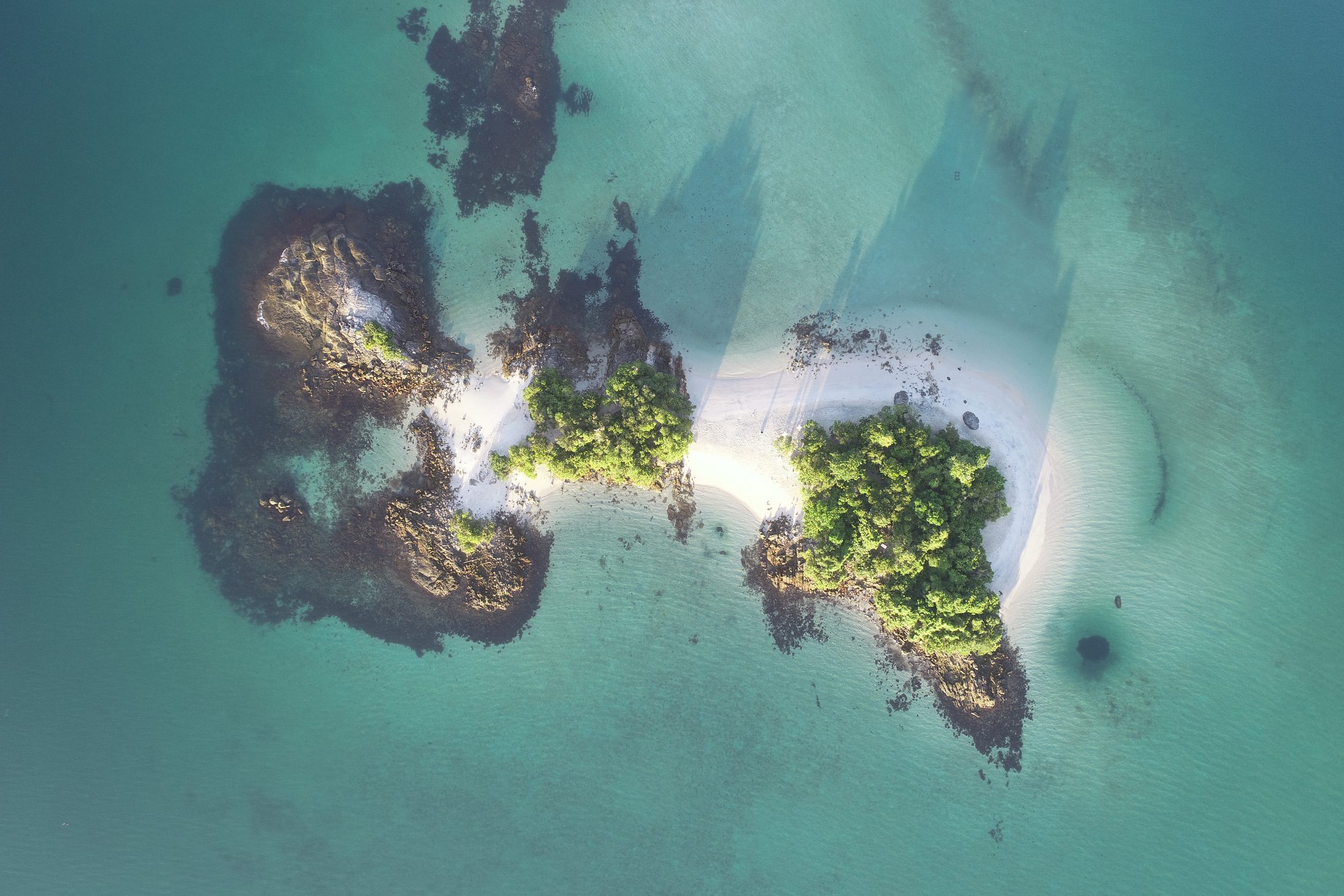
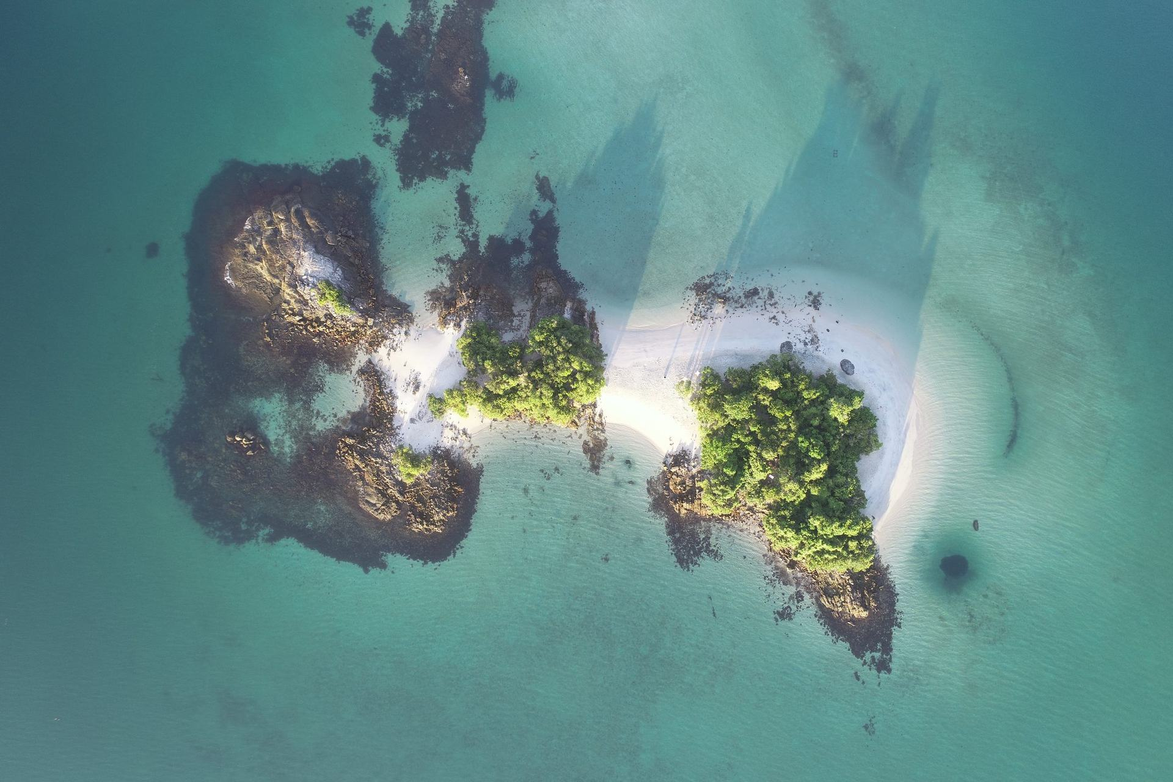
Otimizar site: corrigir imagem quebrada, reduzir peso de assets e lazy loading (#1)
* Otimizar site: corrigir imagem quebrada, reduzir peso de assets e lazy loading

- Corrige assets/vila-do-abraao.png ausente (3 imagens quebradas no site);
  convertida para JPEG (vila-do-abraao.jpg) e movida para assets/
- Remove duplicatas de imagem na raiz e o cataguases-hero.jpg original
  nao referenciado (8,7MB), alem de prints de preview sem uso no site
- Recomprime/redimensiona imagens usadas para o tamanho real exibido
  (assets caiu de ~10,5MB para menos de 1MB)
- Adiciona loading="lazy"/decoding="async" nas imagens fora da dobra e
  fetchpriority="high" na primeira imagem do carrossel do hero
- Adiciona preload da imagem de hero, theme-color e favicon no <head>
- Documenta em PUBLICAR.md as tags de canonical/OG a adicionar quando
  o dominio de producao for definido

* Corrigir nome acessivel do logo e adicionar dimensoes da imagem

Achados no Lighthouse: o link do logo tinha aria-label diferente do
texto visivel (falha WCAG 2.5.3 Label in Name); removido para usar o
texto visivel como nome acessivel. Adicionadas width/height na imagem
do logo para eliminar o unico aviso restante de CLS.

* Minificar CSS de producao

styles.css continua sendo o arquivo fonte, editavel a mao. O
index.html agora carrega styles.min.css (gerado com clean-css-cli),
21% menor. Lighthouse confirmou: unminified-css passou de 8KB de
desperdicio para 0, sem regressao visual ou funcional (testado
carrossel, menu mobile e breakpoints). PUBLICAR.md documenta o
[…]

diff --git a/styles.min.css b/styles.min.css
@@ -1,0 +1,1 @@
+:root{--ink:#061a3a;--muted:#52677a;--paper:#f6fbff;--white:#ffffff;--ocean:#00a9d6;--ocean-dark:#021f4f;--reef:#00a9d6;--leaf:#021f4f;--line:rgba(2, 31, 79, 0.14);--shadow:0 18px 50px rgba(2, 31, 79, 0.12);--max:1160px}*{box-sizing:border-box}html{scroll-behavior:smooth;overflow-x:hidden}body{margin:0;overflow-x:hidden;color:var(--ink);background:linear-gradient(180deg,#f7fcff 0,#fff 34%,#eef9ff 100%);font-family:Inter,ui-sans-serif,system-ui,-apple-system,BlinkMacSystemFont,"Segoe UI",sans-serif;isolation:isolate;line-height:1.5}.sr-only{position:absolute;width:1px;height:1px;padding:0;overflow:visible;clip:rect(0,0,0,0);white-space:nowrap;border:0}.reveal-item{opacity:0;transform:translateY(28px);transition:opacity .7s,transform .7s cubic-bezier(.22, 1, .36, 1);transition-delay:var(--reveal-delay, 0ms)}.reveal-item.is-visible{opacity:1;transform:translateY(0)}.scroll-ocean{position:fixed;inset:0;z-index:0;overflow:hidden;opacity:.62;pointer-events:none}.scroll-ocean::before{position:absolute;top:18svh;left:-12vw;width:124vw;height:46svh;background:linear-gradient(8deg,transparent 0 35%,rgba(0,169,214,.12) 36% 41%,transparent 42% 100%),linear-gradient(-7deg,transparent 0 47%,rgba(2,31,79,.06) 48% 52%,transparent 53% 100%),radial-gradient(ellipse at 52% 50%,rgba(255,255,255,.62),transparent 55%);border-radius:50%;content:"";filter:blur(1px);opacity:.46;transform:rotate(-3deg)}.scroll-ocean::after{position:absolute;top:55svh;left:-16vw;width:132vw;height:24svh;background:repeating-linear-gradient(172deg,transparent 0 34px,rgba(0,169,214,.1) 35px 39px,transparent 40px 80px),linear-gradient(180deg,transparent,rgba(255,255,255,.38),transparent);border-radius:50%;content:"";opacity:.34;transform:rotate(2deg)}.scroll-boat{position:fixed;top:clamp(210px,43svh,520px);left:0;width:clamp(168px,20vw,286px);filter:drop-shadow(0 22px 28px rgba(2, 31, 79, .16));transform:translate3d(-34vw,0,0) rotate(-1.5deg);transform-origin:58% 64%;animation:28s linear -10s infinite boat-cross}.boat-graphic{display:block;width:100%;overflow:visible}.boat-shadow{fill:rgba(2,31,79,0.12)}.boat-hull{fill:url("#boatHullGradient")}.boat-hull-light{fill:rgba(255,255,255,0.16)}.boat-cabin,.boat-deck{fill:url("#boatCabinGradient");stroke:rgba(2,31,79,0.38);stroke-width:2.5}.boat-window{fill:rgba(2,31,79,0.85)}.boat-bow,.boat-rail,.boat-spray,.boat-stripe{fill:none;stroke:#ffffff;stroke-linecap:round;stroke-linejoin:round;stroke-width:3}.boat-stripe{stroke:rgba(255,255,255,0.74);stroke-width:4}.boat-spray{stroke:rgba(0,169,214,0.35);stroke-width:4}.boat-spray-soft{stroke:rgba(2,31,79,0.16);stroke-width:3}@keyframes boat-cross{0%{opacity:0;transform:translate3d(-34vw,20px,0) rotate(-2deg)}8%{opacity:.62}50%{opacity:.72;transform:translate3d(48vw,-18px,0) rotate(1deg)}92%{opacity:.56}100%{opacity:0;transform:translate3d(124vw,18px,0) rotate(-1deg)}}img{display:block;max-width:100%}a{color:inherit;text-decoration:none}.site-footer,main{position:relative;z-index:2}button,input,select,textarea{font:inherit}.site-header{position:fixed;z-index:80;top:0;left:0;right:0;display:grid;grid-template-columns:auto minmax(0,1fr) auto;align-items:center;gap:10px;width:min(calc(100% - 40px),1180px);margin:18px auto 0;padding:7px;overflow:visible;color:var(--white);background:linear-gradient(135deg,rgba(3,49,76,.82),rgba(2,31,79,.56)),rgba(2,31,79,.52);border:1px solid rgba(255,255,255,.24);border-radius:999px;box-shadow:0 22px 60px rgba(2,31,79,.24);backdrop-filter:blur(20px)}.site-header::before{position:absolute;inset:1px;background:linear-gradient(100deg,rgba(255,255,255,.16),transparent 32% 68%,rgba(0,169,214,.16));border-radius:inherit;content:"";pointer-events:none}.site-header>*{position:relative;z-index:1}.brand{display:inline-flex;align-items:center;gap:9px;min-width:0;padding:4px 12px 4px 5px;background:rgba(255,255,255,.1);border:1px solid rgba(255,255,255,.12);border-radius:999px}.brand-logo-wrap{display:flex;flex:0 0 54px;width:54px;height:44px;align-items:center;justify-content:center;padding:4px;background:var(--white);border-radius:999px}.brand-logo-wrap img{max-width:100%;max-height:100%;object-fit:contain}.brand small,.brand strong{display:block}.brand strong{color:var(--white);font-size:.94rem;line-height:1}.brand small{color:rgba(255,255,255,.68);font-size:.75rem}.main-nav{display:flex;align-items:center;justify-content:center;gap:4px;justify-self:center;padding:4px;background:rgba(255,255,255,.08);border:1px solid rgba(255,255,255,.1);border-radius:999px}.header-action,.main-nav a{padding:10px 14px;border-radius:999px;color:rgba(255,255,255,.78);font-size:.86rem;font-weight:700}.main-nav a:hover{color:var(--ocean-dark);background:rgba(255,255,255,.92)}.header-action{display:inline-flex;align-items:center;gap:8px;color:var(--ocean-dark);background:var(--white);box-shadow:0 12px 28px rgba(2,31,79,.2)}.header-action::before{width:8px;height:8px;background:var(--ocean);border-radius:50%;content:""}.header-action:hover{color:var(--ocean-dark);background:#e7faff}.menu-toggle{display:none;width:44px;height:44px;flex:0 0 44px;align-items:center;justify-content:center;flex-direction:column;gap:5px;padding:0;color:var(--white);background:rgba(255,255,255,.14);border:1px solid rgba(255,255,255,.24);border-radius:50%;cursor:pointer;box-shadow:0 10px 24px rgba(2,31,79,.18)}.menu-toggle span{display:block;width:18px;height:2px;background:currentColor;border-radius:999px;transition:transform 180ms,opacity 180ms}.site-header.menu-open .menu-toggle span:first-child{transform:translateY(7px) rotate(45deg)}.site-header.menu-open .menu-toggle span:nth-child(2){opacity:0}.site-header.menu-open .menu-toggle span:nth-child(3){transform:translateY(-7px) rotate(-45deg)}.hero{position:relative;display:grid;min-height:76svh;overflow:hidden;color:var(--white);background:#03314c;isolation:isolate}.hero-media,.hero-overlay{position:absolute;inset:0}.hero-media{z-index:-2;background-image:url("assets/cataguases-hero-web.jpg");background-position:center 34%;background-size:cover;opacity:.82;transform:scale(1.02)}.hero-overlay{z-index:-1;background:linear-gradient(90deg,rgba(3,49,76,.96) 0,rgba(3,49,76,.78) 42%,rgba(3,49,76,.2) 100%),linear-gradient(180deg,rgba(2,31,79,.68) 0,rgba(2,31,79,.18) 48%,rgba(246,251,255,.96) 100%)}.hero-watermark{position:absolute;z-index:0;color:rgba(255,255,255,.08);font-weight:950;line-height:.8;text-transform:uppercase;white-space:nowrap;pointer-events:none}.hero-watermark-viva{right:clamp(18px,5vw,72px);bottom:clamp(108px,18svh,200px);font-size:clamp(5rem, 16vw, 15rem)}.hero-watermark-angra{right:-.08em;bottom:-.24em;font-size:clamp(6rem, 20vw, 18rem)}.hero-content{position:relative;z-index:2;display:grid;grid-template-columns:minmax(0,0.92fr) minmax(420px,1.08fr);gap:clamp(30px,5vw,70px);align-items:center;width:min(calc(100% - 32px),var(--max));margin:0 auto;padding:118px 0 52px}.hero-content>*{opacity:0;transform:translateY(18px);animation:.8s cubic-bezier(.22,1,.36,1) forwards hero-rise}.hero-content>:nth-child(2){animation-delay:90ms}@keyframes hero-rise{to{opacity:1;transform:translateY(0)}}.hero-copy-block{position:relative;max-width:680px;padding:18px 0 8px}.hero-copy-block::before{position:absolute;top:0;left:0;width:96px;height:2px;background:linear-gradient(90deg,var(--ocean),rgba(255,255,255,.72),transparent);content:""}.hero-topline{display:inline-flex;flex-wrap:wrap;gap:6px;margin-bottom:16px;padding:5px;color:rgba(255,255,255,.78);background:rgba(255,255,255,.1);border:1px solid rgba(255,255,255,.14);border-radius:999px;backdrop-filter:blur(10px)}.hero-topline span{padding:6px 11px;background:rgba(255,255,255,.08);border-radius:999px;font-size:.72rem;font-weight:900;text-transform:uppercase}.eyebrow{margin:0 0 12px;color:var(--reef);font-size:.78rem;font-weight:900;letter-spacing:0;text-transform:uppercase}.hero-brand-name{display:grid;width:min(100%,760px);margin:0;color:var(--white);line-height:.86;letter-spacing:0;text-shadow:0 24px 55px rgba(2,31,79,.36)}.hero-brand-name span{display:block}.hero-brand-viva{margin:0 0 -.12em .08em;color:rgba(255,255,255,.92);font-size:clamp(2rem, 3.8vw, 3.7rem);font-style:italic;font-weight:850}.hero-brand-angra{color:#85f0ff;font-size:clamp(4.2rem, 9.2vw, 8.5rem);font-weight:950}.hero-brand-tour{position:relative;justify-self:start;margin-top:12px;padding:10px 34px 12px;overflow:visible;color:var(--white);background:linear-gradient(95deg,#021f4f,#073b7b 72%,#00a9d6);border:1px solid rgba(255,255,255,.3);border-radius:8px;box-shadow:0 18px 42px rgba(2,31,79,.3),inset 0 1px 0 rgba(255,255,255,.22);font-size:clamp(1.55rem, 2.7vw, 2.45rem);font-weight:950;line-height:1;text-transform:uppercase}.hero-copy{max-width:520px;margin:20px 0 0;color:rgba(255,255,255,.88);font-size:clamp(1rem, 1.45vw, 1.18rem)}.hero-points{display:grid;grid-template-columns:repeat(3,minmax(0,1fr));gap:0;max-width:680px;margin:26px 0 0;padding:0;color:rgba(255,255,255,.86);border-top:1px solid rgba(255,255,255,.18);border-bottom:1px solid rgba(255,255,255,.18);list-style:none}.hero-points li{position:relative;padding:13px 14px 13px 16px;border-right:1px solid rgba(255,255,255,.16);font-size:.86rem;font-weight:800}.hero-points li:last-child{border-right:0}.hero-points li::before{position:absolute;top:17px;left:0;width:3px;height:18px;background:var(--reef);border-radius:999px;content:""}.hero-actions{display:flex;flex-wrap:wrap;gap:12px;margin-top:30px}.hero-showcase{position:relative;min-height:430px;perspective:1200px}.hero-showcase::before{position:absolute;inset:48px 24px 54px 34px;background:linear-gradient(145deg,rgba(255,255,255,.14),rgba(255,255,255,.035));border:1px solid rgba(255,255,255,.2);border-radius:8px;content:"";transform:rotate(-4deg) skewY(-1deg);transform-origin:center;backdrop-filter:blur(6px)}.hero-showcase-label{position:absolute;z-index:4;top:16px;left:22px;padding:12px 14px;color:var(--white);background:rgba(2,31,79,.58);border:1px solid rgba(255,255,255,.18);border-radius:8px;box-shadow:0 18px 44px rgba(2,31,79,.22);backdrop-filter:blur(14px)}.hero-showcase-label span,.hero-showcase-label strong{display:block}.hero-showcase-label span{color:rgba(255,255,255,.66);font-size:.72rem;font-weight:900;text-transform:uppercase}.hero-showcase-label strong{margin-top:3px;font-size:1rem}.hero-route-carousel{position:absolute;inset:28px 0 66px;transform-style:preserve-3d}.hero-route-card{position:absolute;top:50%;left:50%;width:min(54%,300px);height:300px;margin:0;overflow:hidden;background:var(--ocean-dark);border:1px solid rgba(255,255,255,.28);border-radius:8px;box-shadow:0 30px 80px rgba(2,31,79,.36);opacity:0;transform:translate3d(-50%,-50%,-260px) rotateY(32deg) scale(.64);transform-origin:center;animation:30s cubic-bezier(.77,0,.18,1) infinite route-card-cycle;animation-delay:calc(var(--card) * -5s);will-change:transform,opacity}.hero-route-card img{width:100%;height:100%;object-fit:cover;transform:scale(1.02)}.hero-route-card figcaption{position:absolute;right:0;bottom:0;left:0;padding:62px 18px 18px;color:var(--white);background:linear-gradient(0deg,rgba(2,31,79,.86),transparent)}.hero-route-card span,.hero-route-note span,.hero-stat span{display:block;color:rgba(255,255,255,.72);font-size:.74rem;font-weight:900;text-transform:uppercase}.hero-route-card strong{display:block;margin-top:5px;font-size:clamp(1.35rem, 2.1vw, 1.75rem);line-height:1}@keyframes route-card-cycle{0%,100%,9%,97%{opacity:1;transform:translate3d(-50%,-50%,140px) rotateY(0) scale(1)}14%,26%{opacity:.78;transform:translate3d(-10%,-56%,-30px) rotateY(-24deg) scale(.78)}31%,43%{opacity:.24;transform:translate3d(18%,-42%,-210px) rotateY(-42deg) scale(.56)}48%,58%{opacity:0;transform:translate3d(-50%,-32%,-330px) rotateY(0) scale(.5)}63%,75%{opacity:.24;transform:translate3d(-118%,-42%,-210px) rotateY(42deg) scale(.56)}80%,92%{opacity:.78;transform:translate3d(-90%,-56%,-30px) rotateY(24deg) scale(.78)}}.hero-route-note,.hero-stat{position:absolute;z-index:3;padding:16px 18px;color:var(--white);background:linear-gradient(145deg,rgba(3,49,76,.84),rgba(2,31,79,.68)),rgba(2,31,79,.72);border:1px solid rgba(255,255,255,.22);border-radius:8px;box-shadow:0 20px 45px rgba(2,31,79,.22);backdrop-filter:blur(14px)}.hero-stat{top:4px;right:56px;min-width:150px}.hero-stat strong{display:block;margin-top:6px;font-size:2rem;line-height:1}.hero-route-note{bottom:0;right:0;max-width:270px}.hero-route-note strong{display:block;margin-top:6px;font-size:1rem;line-height:1.2}.button{display:inline-flex;align-items:center;justify-content:center;min-height:50px;padding:13px 20px;border:0;border-radius:7px;cursor:pointer;font-weight:900;transition:transform 180ms,box-shadow 180ms,background 180ms}.button:hover{transform:translateY(-1px)}.button-primary{color:var(--white);background:var(--reef);box-shadow:0 14px 34px rgba(0,169,214,.28)}.button-primary:hover{background:#008fbd}.button-secondary{color:var(--white);background:rgba(255,255,255,.16);border:1px solid rgba(255,255,255,.34)}.hero .button{min-height:54px;border-radius:999px}.hero .button-primary{color:var(--ocean-dark);background:var(--white);box-shadow:0 16px 42px rgba(2,31,79,.24)}.hero .button-primary:hover{background:#dff7ff}.hero .button-secondary{color:var(--white);background:rgba(255,255,255,.1)}.route-strip{display:grid;grid-template-columns:repeat(3,1fr);width:min(calc(100% - 32px),var(--max));margin:-28px auto 0;overflow:hidden;background:rgba(255,255,255,.92);border:1px solid var(--line);border-radius:8px;box-shadow:var(--shadow);position:relative;z-index:4}.route-strip div{padding:15px 18px;border-right:1px solid var(--line)}.route-strip div:last-child{border-right:0}.route-strip span,.route-strip strong{display:block}.route-strip strong{margin-bottom:2px;color:var(--ocean-dark);font-size:.92rem}.route-strip span{color:var(--muted);font-size:.86rem}.section{width:min(calc(100% - 32px),var(--max));margin:0 auto;padding:66px 0}.section-intro{padding-top:78px}.section-heading{position:relative;max-width:660px;margin-bottom:28px;padding-left:16px;border-left:3px solid var(--ocean)}.section-heading.compact{margin-bottom:26px}.planner-copy h2,.section-heading h2{margin:0;color:var(--ink);font-size:clamp(1.9rem, 3.6vw, 3.1rem);line-height:1;letter-spacing:0}.planner-copy p:last-child,.section-heading p:last-child{margin:14px 0 0;color:var(--muted);font-size:.98rem}.route-gallery{position:relative;margin:-4px 0 24px;overflow:hidden;background:linear-gradient(180deg,rgba(255,255,255,.82),rgba(234,248,255,.68));border:1px solid rgba(2,31,79,.09);border-radius:8px;box-shadow:0 16px 40px rgba(2,31,79,.08)}.route-gallery::after,.route-gallery::before{position:absolute;z-index:2;top:0;bottom:0;width:72px;content:"";pointer-events:none}.route-gallery::before{left:0;background:linear-gradient(90deg,var(--paper),transparent)}.route-gallery::after{right:0;background:linear-gradient(270deg,var(--paper),transparent)}.route-gallery-track{display:flex;width:max-content;gap:14px;padding:12px;animation:48s linear infinite gallery-drift}.route-gallery:hover .route-gallery-track{animation-play-state:paused}.route-photo-card{position:relative;flex:0 0 clamp(224px,25vw,330px);height:156px;margin:0;overflow:hidden;background:var(--ocean-dark);border-radius:8px;box-shadow:0 10px 22px rgba(2,31,79,.12)}.route-photo-card img{width:100%;height:100%;object-fit:cover;transform:scale(1.02)}.route-photo-card figcaption{position:absolute;right:0;bottom:0;left:0;padding:42px 14px 14px;color:var(--white);background:linear-gradient(0deg,rgba(2,31,79,.84),transparent)}.route-photo-card span,.route-photo-card strong{display:block}.route-photo-card strong{font-size:1rem;line-height:1.1}.route-photo-card span{margin-top:2px;color:rgba(255,255,255,.82);font-size:.82rem}@keyframes gallery-drift{to{transform:translateX(calc(-50% - 7px))}}.tour-grid{display:grid;grid-template-columns:repeat(2,minmax(0,1fr));gap:12px}.tour-card{position:relative;display:grid;grid-template-columns:minmax(150px,0.42fr) minmax(0,1fr);min-height:100%;overflow:hidden;background:linear-gradient(180deg,var(--white),#f9fdff);border:1px solid var(--line);border-radius:8px;box-shadow:0 12px 28px rgba(2,31,79,.07);transition:transform 180ms,box-shadow 180ms,border-color 180ms}.tour-card:hover{border-color:rgba(0,169,214,.32);box-shadow:0 18px 46px rgba(2,31,79,.13);transform:translateY(-3px)}.tour-card img{width:100%;height:100%;min-height:242px;object-fit:cover}.tour-card-body{display:flex;flex:1;flex-direction:column;gap:9px;padding:14px}.tag{display:inline-flex;width:fit-content;margin:0 0 7px;padding:4px 7px;color:var(--ocean-dark);background:rgba(0,169,214,.13);border-radius:5px;font-size:.7rem;font-weight:900;text-transform:uppercase}.confidence h3,.tour-card h3{margin:0;font-size:1.08rem;line-height:1.16}.tour-card p{margin:0;color:var(--muted);font-size:.88rem;line-height:1.42}.tour-highlights{display:flex;flex-wrap:wrap;gap:6px;margin:0;padding:0;color:var(--ink);font-size:.75rem;font-weight:800;list-style:none}.tour-highlights li{padding:4px 7px;color:var(--ocean-dark);background:rgba(0,169,214,.1);border:1px solid rgba(0,169,214,.14);border-radius:5px}.tour-highlights li::before{display:none}.tour-price{padding:8px 10px;background:rgba(246,251,255,.8);border:1px solid rgba(0,169,214,.28);border-radius:8px}.tour-price span,.tour-price strong{display:block}.tour-price strong{color:var(--ocean-dark);font-size:.9rem;font-weight:900}.tour-price span{margin-top:2px;color:var(--muted);font-size:.76rem}.tour-card dl{display:grid;grid-template-columns:repeat(2,1fr);gap:8px;margin:auto 0 0}.tour-card dl div{padding-top:9px;border-top:1px solid var(--line)}.tour-card dt{color:var(--muted);font-size:.68rem;font-weight:800;text-transform:uppercase}.tour-card dd{margin:2px 0 0;font-size:.82rem;font-weight:800}.text-link{display:inline-flex;width:fit-content;color:var(--ocean);font-weight:900}.text-link:hover{color:var(--reef)}.mood-section{display:grid;grid-template-columns:0.78fr 1.22fr;gap:36px;align-items:center;padding-top:22px;padding-bottom:72px}.mood-copy{max-width:470px}.mood-copy h2{margin:0;color:var(--ink);font-size:clamp(1.9rem, 3.5vw, 3rem);line-height:1}.mood-copy p:last-child{margin:14px 0 0;color:var(--muted);font-size:.98rem}.mood-list{display:grid;gap:9px;margin:22px 0 0;padding:0;color:var(--ink);font-size:.92rem;font-weight:850;list-style:none}.mood-list li{position:relative;padding-left:18px}.mood-list li::before{position:absolute;top:.58em;left:0;width:7px;height:7px;background:var(--ocean);border-radius:50%;content:""}.mood-visuals{display:grid;grid-template-columns:minmax(0,1.12fr) minmax(250px,0.88fr);grid-template-rows:repeat(2,minmax(178px,1fr));gap:14px}.mood-card{position:relative;min-height:178px;margin:0;overflow:hidden;background:var(--ocean-dark);border-radius:8px;box-shadow:0 20px 46px rgba(2,31,79,.14);isolation:isolate;transition:transform 180ms,box-shadow 180ms}.mood-card:hover{box-shadow:0 26px 58px rgba(2,31,79,.18);transform:translateY(-3px)}.mood-card-wide{grid-row:span 2}.mood-card img{width:100%;height:100%;object-fit:cover;transform:scale(1.02);transition:transform .4s}.mood-card:hover img{transform:scale(1.06)}.mood-card figcaption{position:absolute;right:0;bottom:0;left:0;display:flex;align-items:flex-end;justify-content:space-between;gap:16px;padding:72px 18px 18px;color:var(--white);background:linear-gradient(0deg,rgba(2,31,79,.82),transparent)}.mood-card span{flex:0 0 auto;color:rgba(255,255,255,.72);font-size:.76rem;font-weight:900}.mood-card strong{display:block;font-size:1.08rem;line-height:1.1}.mood-card small{display:block;max-width:240px;margin-top:5px;color:rgba(255,255,255,.78);font-size:.78rem;line-height:1.28}.confidence{width:100%;padding:60px max(16px,calc((100% - var(--max))/ 2));background:linear-gradient(120deg,rgba(234,248,255,.98),rgba(255,255,255,.9)),linear-gradient(180deg,transparent 0 72%,rgba(0,169,214,.08) 72% 100%)}.confidence-grid{display:grid;grid-template-columns:repeat(3,1fr);gap:12px}.confidence-grid div{padding:18px;background:rgba(255,255,255,.68);border:1px solid rgba(2,31,79,.1);border-radius:8px}.number{display:block;margin-bottom:14px;color:var(--reef);font-size:.86rem;font-weight:900}.confidence p{margin:10px 0 0;color:var(--muted);font-size:.92rem}.process-list{display:grid;grid-template-columns:repeat(4,minmax(0,1fr));border-top:1px solid var(--line);border-left:1px solid var(--line)}.process-list article{min-height:166px;padding:17px;background:var(--white);border-right:1px solid var(--line);border-bottom:1px solid var(--line)}.process-list span{display:block;margin-bottom:18px;color:var(--reef);font-weight:900}.essentials h3,.process-list h3{margin:0;font-size:1.08rem;line-height:1.2}.process-list p{margin:9px 0 0;color:var(--muted);font-size:.93rem;line-height:1.42}.essentials{display:grid;grid-template-columns:0.72fr 1.28fr;gap:28px;align-items:start;padding-top:12px}.essentials h2{margin:0;font-size:clamp(1.9rem, 3.5vw, 3.05rem);line-height:1}.essentials-grid{display:grid;grid-template-columns:repeat(2,minmax(0,1fr));gap:14px}.essentials-grid article{min-height:172px;padding:17px;color:var(--white);background:var(--ocean-dark);border-radius:8px}.essentials-grid article:nth-child(2){background:var(--ocean-dark);border-top:6px solid var(--ocean)}.essentials-grid ul{display:grid;gap:7px;margin:12px 0 0;padding:0;list-style:none}.essentials-grid li{padding-top:7px;border-top:1px solid rgba(255,255,255,.22);color:rgba(255,255,255,.86);font-size:.9rem;line-height:1.38}.planner{display:grid;grid-template-columns:0.82fr 1.18fr;gap:28px;align-items:start}.planner-copy{position:sticky;top:110px}.quote-form{display:grid;grid-template-columns:repeat(2,minmax(0,1fr));gap:12px;padding:20px;background:var(--white);border:1px solid var(--line);border-radius:8px;box-shadow:var(--shadow)}.quote-form label{display:grid;gap:8px;color:var(--ink);font-weight:800}.quote-form input,.quote-form select,.quote-form textarea{width:100%;min-height:42px;padding:9px 11px;color:var(--ink);background:#f6fbff;border:1px solid var(--line);border-radius:6px;outline:0}.quote-form textarea{resize:vertical}.quote-form input:focus,.quote-form select:focus,.quote-form textarea:focus{border-color:var(--ocean);box-shadow:0 0 0 4px rgba(0,169,214,.14)}.wide{grid-column:1/-1}.form-summary{grid-column:1/-1;padding:14px;background:#f6fbff;border:1px dashed rgba(0,169,214,.5);border-radius:8px}.form-summary strong{color:var(--ocean-dark)}.form-summary p{margin:8px 0 0;color:var(--muted)}.closing-cta{display:flex;justify-content:space-between;gap:18px;align-items:center;width:min(calc(100% - 32px),var(--max));margin:0 auto 24px;padding:26px;color:var(--white);background:linear-gradient(90deg,rgba(2,31,79,.96),rgba(0,169,214,.82)) center/cover,url("assets/ilhas-botinas.jpg") center/cover;border-radius:8px}.closing-cta div{max-width:760px}.closing-cta .eyebrow{color:rgba(255,255,255,.88)}.closing-cta h2{margin:0;font-size:clamp(1.65rem, 3vw, 2.35rem);line-height:1}.closing-cta p{margin:12px 0 0;color:rgba(255,255,255,.86);font-size:.98rem}.faq{padding-top:28px}.faq-list{display:grid;gap:10px}.faq-list details{background:var(--white);border:1px solid var(--line);border-radius:8px}.faq-list summary{cursor:pointer;padding:15px 17px;font-size:.98rem;font-weight:900}.faq-list p{margin:0;padding:0 18px 18px;color:var(--muted)}.contact{padding-top:34px}.contact-panel{display:grid;grid-template-columns:1.2fr 0.8fr;gap:22px;align-items:stretch;padding:24px;color:var(--white);background:linear-gradient(110deg,rgba(2,31,79,.96),rgba(2,31,79,.82) 44%,rgba(0,169,214,.62)) center/cover,url("assets/cataguases-hero-web.jpg") center/cover;border-radius:8px;box-shadow:0 22px 60px rgba(2,31,79,.16)}.contact-panel-copy{max-width:680px}.contact-panel .eyebrow{color:rgba(255,255,255,.82)}.contact-panel h2{max-width:620px;margin:0;font-size:clamp(1.9rem, 3.6vw, 3rem);line-height:.98}.contact-panel p{max-width:620px;margin:14px 0 0;color:rgba(255,255,255,.84);font-size:.98rem}.contact-actions{display:flex;flex-wrap:wrap;gap:12px;margin-top:24px}.contact-instagram{color:var(--white);border-color:rgba(255,255,255,.36)}.contact-panel-info{display:grid;gap:12px;margin-right:74px}.contact-panel-info div{display:flex;flex-direction:column;justify-content:center;min-height:84px;padding:16px;background:rgba(255,255,255,.11);border:1px solid rgba(255,255,255,.18);border-radius:8px;backdrop-filter:blur(14px)}.contact-panel-info span{color:rgba(255,255,255,.72);font-size:.78rem;font-weight:900;text-transform:uppercase}.contact-panel-info strong{margin-top:8px;font-size:1.15rem;line-height:1.12}.site-footer{display:flex;justify-content:space-between;gap:20px;align-items:center;width:min(calc(100% - 32px),var(--max));margin:0 auto;padding:34px 0 42px;color:var(--muted);border-top:1px solid var(--line)}.site-footer span,.site-footer strong{display:block}.photo-credits{display:block;max-width:620px;margin-top:8px;font-size:.78rem}.photo-credits a{text-decoration:underline;text-underline-offset:3px}.site-footer a,.site-footer strong{color:var(--ink);font-weight:900}.floating-whatsapp{position:fixed;right:18px;bottom:18px;z-index:90;display:inline-flex;align-items:center;justify-content:center;width:64px;height:64px;color:var(--white);background:#1fb865;border:2px solid rgba(255,255,255,.92);border-radius:50%;box-shadow:0 14px 34px rgba(2,31,79,.26),0 10px 28px rgba(31,184,101,.28);transition:transform 180ms,background 180ms,box-shadow 180ms;overflow:visible}.floating-whatsapp::before{position:absolute;inset:-8px;border:1px solid rgba(31,184,101,.45);border-radius:50%;content:"";opacity:0;animation:2.4s ease-out infinite whatsapp-ring}.floating-whatsapp svg{position:relative;z-index:1;width:35px;height:35px;fill:currentColor;animation:2.4s ease-in-out infinite whatsapp-symbol}.floating-whatsapp:hover{background:#16a85a;box-shadow:0 18px 40px rgba(0,42,83,.28),0 14px 34px rgba(31,184,101,.36);transform:translateY(-2px) scale(1.02)}@keyframes whatsapp-ring{0%{opacity:.5;transform:scale(.72)}100%,70%{opacity:0;transform:scale(1.24)}}@keyframes whatsapp-symbol{0%,100%,24%{transform:rotate(0) scale(1)}8%{transform:rotate(-8deg) scale(1.04)}16%{transform:rotate(8deg) scale(1.04)}}@media (max-width:900px){.scroll-ocean{opacity:.46}.scroll-ocean::before{top:20svh;left:-22vw;width:144vw;height:42svh}.scroll-ocean::after{top:58svh;left:-24vw;width:150vw}.scroll-boat{top:clamp(230px,52svh,520px);right:auto;width:clamp(138px,26vw,190px);animation-duration:30s}.site-header{grid-template-columns:minmax(0,1fr) auto;width:calc(100% - 20px);margin-top:10px;padding:7px;gap:8px;z-index:70}.main-nav{position:fixed;top:76px;right:10px;left:10px;z-index:68;display:grid;gap:4px;padding:10px;background:linear-gradient(145deg,rgba(3,49,76,.96),rgba(2,31,79,.92)),rgba(2,31,79,.94);border:1px solid rgba(255,255,255,.16);border-radius:8px;box-shadow:0 22px 54px rgba(2,31,79,.28);opacity:0;pointer-events:none;transform:translateY(-8px);transition:opacity 180ms,transform 180ms}.site-header.menu-open .main-nav{opacity:1;pointer-events:auto;transform:translateY(0)}.main-nav a{padding:13px 14px;color:rgba(255,255,255,.88);background:rgba(255,255,255,.08);border-radius:6px}.menu-toggle{position:fixed;top:18px;right:18px;z-index:92;display:inline-flex!important;margin-left:0;visibility:visible}.header-action{display:none!important}.hero{min-height:auto}.hero-content{grid-template-columns:1fr;width:calc(100% - 32px);padding:112px 0 46px}.hero-copy-block{max-width:620px;padding-bottom:0}.hero-showcase{display:block;width:min(100%,620px);min-height:320px;margin:0 auto}.hero-showcase::before{inset:44px 10px 50px}.hero-showcase-label{top:8px;left:8px}.hero-route-carousel{inset:28px 0 60px}.hero-route-card{width:min(62%,280px);height:248px}.hero-stat{top:4px;right:8px;min-width:132px}.hero-route-note{right:8px;bottom:4px;max-width:240px}.hero-points{grid-template-columns:1fr}.hero-points li{border-right:0;border-bottom:1px solid rgba(255,255,255,.16)}.hero-points li:last-child{border-bottom:0}.confidence-grid,.essentials,.essentials-grid,.mood-section,.planner,.process-list,.route-strip,.tour-card,.tour-grid{grid-template-columns:1fr}.tour-card img{height:178px;min-height:0}.mood-copy{max-width:640px}.mood-section{gap:24px;padding-bottom:54px}.mood-visuals{grid-template-columns:1fr;grid-template-rows:auto}.mood-card,.mood-card-wide{grid-row:auto;min-height:190px}.mood-card figcaption{align-items:flex-start;flex-direction:column;justify-content:flex-end;gap:8px}.mood-card small{max-width:100%}.contact-panel{grid-template-columns:1fr;padding:22px}.contact-panel-info{grid-template-columns:repeat(3,minmax(0,1fr));margin-right:0}.route-gallery{margin-bottom:18px}.route-photo-card{flex-basis:240px;height:152px}.process-list{border-top:1px solid var(--line)}.process-list article{min-height:auto}.process-list span{margin-bottom:14px}.route-strip div{border-right:0;border-bottom:1px solid var(--line)}.route-strip div:last-child{border-bottom:0}.planner-copy{position:static}.closing-cta{align-items:stretch;flex-direction:column}}@media (max-width:640px){.scroll-ocean{opacity:.34}.scroll-boat{top:56svh;width:136px;animation-duration:34s}.site-header{grid-template-columns:minmax(0,1fr) 44px;justify-content:flex-start;padding-right:62px}.menu-toggle{position:fixed;top:18px;right:18px;display:inline-flex!important;margin-left:0;visibility:visible;z-index:92}.brand{min-width:0;padding-right:9px}.brand-logo-wrap{flex-basis:50px;width:50px;height:44px;padding:4px}.brand span:last-child{max-width:122px}.brand strong{font-size:.88rem;line-height:1.1}.brand small{font-size:.7rem}.main-nav{top:72px}.hero-watermark-viva{right:-.02em;bottom:clamp(112px,19svh,168px);font-size:clamp(4.6rem, 24vw, 7rem)}.hero-watermark-angra{right:-.08em;bottom:-.18em;font-size:clamp(5.3rem, 28vw, 8rem)}.hero-content{width:calc(100% - 24px);padding:102px 0 40px}.hero-topline{gap:4px;border-radius:8px}.hero-topline span{padding:5px 8px;font-size:.66rem}.hero-brand-viva{font-size:clamp(1.75rem, 9vw, 2.5rem)}.hero-brand-angra{font-size:clamp(3.7rem, 18vw, 5.2rem)}.hero-brand-tour{margin-top:9px;padding:8px 22px 10px;font-size:clamp(1.25rem, 7vw, 1.75rem)}.hero-copy{font-size:1rem}.hero-points{display:grid;gap:0;font-size:.88rem}.hero-showcase{min-height:292px}.hero-showcase::before{inset:42px 0 46px}.hero-showcase-label{top:4px;left:0;padding:10px 11px}.hero-route-card{width:min(72%,250px);height:220px}.hero-stat{top:6px;right:0;min-width:108px;padding:12px}.hero-stat strong{font-size:1.45rem}.hero-route-note{right:0;bottom:6px;left:84px;max-width:none;padding:12px}.hero-route-note strong{font-size:.9rem}.hero-actions,.site-footer{align-items:stretch;flex-direction:column}.button,.button-secondary{width:100%}.section{padding:54px 0}.section-intro{padding-top:66px}.quote-form{grid-template-columns:1fr;padding:18px}.essentials-grid article,.process-list article{padding:18px}.closing-cta{padding:24px 18px}.contact-panel{padding:18px}.contact-panel h2{font-size:2rem}.contact-panel-info{grid-template-columns:1fr}.floating-whatsapp{right:14px;bottom:14px;width:58px;height:58px}.floating-whatsapp svg{width:29px;height:29px}.tour-card img{height:190px}}@media (prefers-reduced-motion:reduce){.hero-content>*,.reveal-item{opacity:1;transform:none;transition:none;animation:none}.route-gallery-track{animation:none}.hero-route-card{opacity:1;transform:translate3d(-50%,-50%,0) rotateY(0) scale(1);animation:none}.hero-route-card:not(:first-child){display:none}.floating-whatsapp svg,.floating-whatsapp::before{animation:none}.scroll-boat{animation:none;opacity:.42;transform:translate3d(66vw,0,0) rotate(-1deg)}}

diff --git a/index.html b/index.html
@@ -8,13 +8,16 @@
       name="description"
       content="Passeios de lancha, ilhas e praias em Angra dos Reis com a Viva Angra Tour. Monte seu roteiro e fale direto pelo WhatsApp."
     />
-    <link rel="stylesheet" href="styles.css?v=39" />
+    <meta name="theme-color" content="#021f4f" />
+    <link rel="icon" href="assets/viva-angra-tour-logo.png" type="image/png" />
+    <link rel="preload" as="image" href="assets/cataguases-hero-web.jpg" fetchpriority="high" />
+    <link rel="stylesheet" href="styles.min.css?v=1" />
   </head>
   <body>
     <header class="site-header" aria-label="Topo">
-      <a class="brand" href="#inicio" aria-label="Viva Angra Tour">
+      <a class="brand" href="#inicio">
         <span class="brand-logo-wrap">
-          <img src="assets/viva-angra-tour-logo.png?v=2" alt="Viva Angra Tour" />
+          <img src="assets/viva-angra-tour-logo.png?v=2" alt="Viva Angra Tour" width="506" height="424" />
         </span>
         <span>
           <strong>Passeios em Angra</strong>
@@ -114,7 +117,7 @@
             </div>
             <div class="hero-route-carousel" aria-label="Roteiros em destaque">
               <figure class="hero-route-card" style="--card: 0">
-                <img src="assets/ilhas-botinas.jpg" alt="Ilhas Botinas vistas do mar" />
+                <img src="assets/ilhas-botinas.jpg" decoding="async" loading="eager" fetchpriority="high" alt="Ilhas Botinas vistas do mar" />
                 <figcaption>
                   <span>Banho e almoço</span>
                   <strong>Ilhas Paradisíacas</strong>
@@ -122,7 +125,7 @@
               </figure>
 
               <figure class="hero-route-card" style="--card: 1">
-                <img src="assets/lagoa-azul.jpg" alt="Lagoa Azul em Ilha Grande" />
+                <img src="assets/lagoa-azul.jpg" decoding="async" loading="lazy" alt="Lagoa Azul em Ilha Grande" />
                 <figcaption>
                   <span>Roteiro para snorkel</span>
                   <strong>Lagoa Azul</strong>
@@ -130,7 +133,7 @@
               </figure>
 
               <figure class="hero-route-card" style="--card: 2">
-                <img src="assets/itanhaga-lado-frade.jpg" alt="Itanhagá no roteiro Lado Frade" />
+                <img src="assets/itanhaga-lado-frade.jpg" decoding="async" loading="lazy" alt="Itanhagá no roteiro Lado Frade" />
                 <figcaption>
                   <span>Saída pelo Frade</span>
                   <strong>Lado Frade</strong>
@@ -138,7 +141,7 @@
               </figure>
 
               <figure class="hero-route-card" style="--card: 3">
-                <img src="assets/lopes-mendes.jpg" alt="Praia de Lopes Mendes vista do alto" />
+                <img src="assets/lopes-mendes.jpg" decoding="async" loading="lazy" alt="Praia de Lopes Mendes vista do alto" />
                 <figcaption>
                   <span>Ilha Grande</span>
                   <strong>Lopes Mendes</strong>
@@ -146,7 +149,7 @@
               </figure>
 
               <figure class="hero-route-card" style="--card: 4">
-                <img src="assets/praia-do-aventureiro.jpg" alt="Praia do Aventureiro com coqueiro e mar claro" />
+                <img src="assets/praia-do-aventureiro.jpg" decoding="async" loading="lazy" alt="Praia do Aventureiro com coqueiro e mar claro" />
                 <figcaption>
                   <span>Dia especial</span>
                   <strong>Praia do Aventureiro</strong>
@@ -154,7 +157,7 @@
               </figure>
 
               <figure class="hero-route-card" style="--card: 5">
-                <img src="assets/vila-do-abraao.png" alt="Vista aérea da Vila do Abraão, Ilha Grande" />
+                <img src="assets/vila-do-abraao.jpg" decoding="async" loading="lazy" alt="Vista aérea da Vila do Abraão, Ilha Grande" />
                 <figcaption>
                   <span>Vila e praias próximas</span>
                   <strong>Abraão</strong>
@@ -202,112 +205,112 @@
         <div class="route-gallery" aria-label="Galeria de roteiros em Angra dos Reis">
           <div class="route-gallery-track">
             <figure class="route-photo-card">
-              <img src="assets/cataguases-hero-web.jpg" alt="Vista aérea de Cataguases e águas claras" />
+              <img src="assets/cataguases-hero-web.jpg" decoding="async" loading="lazy" alt="Vista aérea de Cataguases e águas claras" />
               <figcaption>
                 <strong>Cataguases</strong>
                 <span>Água clara e banco de areia</span>
               </figcaption>
             </figure>
             <figure class="route-photo-card">
-              <img src="assets/ilhas-botinas.jpg" alt="Ilhas Botinas vistas do mar" />
+              <img src="assets/ilhas-botinas.jpg" decoding="async" loading="lazy" alt="Ilhas Botinas vistas do mar" />
               <figcaption>
                 <strong>Ilhas Botinas</strong>
                 <span>Água clara perto da Gipóia</span>
               </figcaption>
             </figure>
             <figure class="route-photo-card">
-              <img src="assets/lagoa-azul.jpg" alt="Lagoa Azul com água clara e montanhas" />
+              <img src="assets/lagoa-azul.jpg" decoding="async" loading="lazy" alt="Lagoa Azul com água clara e montanhas" />
               <figcaption>
                 <strong>Lagoa Azul</strong>
                 <span>Snorkel e água turquesa</span>
               </figcaption>
             </figure>
             <figure class="route-photo-card">
-              <img src="assets/cataguases-hero-web.jpg" alt="Ilhas e areia clara vistas de cima" />
+              <img src="assets/cataguases-hero-web.jpg" decoding="async" loading="lazy" alt="Ilhas e areia clara vistas de cima" />
               <figcaption>
                 <strong>Ilhas Paradisíacas</strong>
                 <span>Gipóia, Botinas e almoço</span>
               </figcaption>
             </figure>
             <figure class="route-photo-card">
-              <img src="assets/itanhaga-lado-frade.jpg" alt="Itanhagá no roteiro Lado Frade" />
+              <img src="assets/itanhaga-lado-frade.jpg" decoding="async" loading="lazy" alt="Itanhagá no roteiro Lado Frade" />
               <figcaption>
                 <strong>Lado Frade</strong>
                 <span>Itanhagá e lado do Frade</span>
               </figcaption>
             </figure>
             <figure class="route-photo-card">
-              <img src="assets/lopes-mendes.jpg" alt="Praia de Lopes Mendes vista do alto" />
+              <img src="assets/lopes-mendes.jpg" decoding="async" loading="lazy" alt="Praia de Lopes Mendes vista do alto" />
               <figcaption>
                 <strong>Lopes Mendes</strong>
                 <span>Praia oceânica e selvagem</span>
               </figcaption>
             </figure>
             <figure class="route-photo-card">
-              <img src="assets/praia-do-aventureiro.jpg" alt="Praia do Aventureiro com coqueiro e mar claro" />
+              <img src="assets/praia-do-aventureiro.jpg" decoding="async" loading="lazy" alt="Praia do Aventureiro com coqueiro e mar claro" />
               <figcaption>
                 <strong>Praia do Aventureiro</strong>
                 <span>Coqueiro famoso e mar aberto</span>
               </figcaption>
             </figure>
             <figure class="route-photo-card">
-            <img src="assets/vila-do-abraao.png" alt="Vista aérea da Vila do Abraão, Ilha Grande" />
+            <img src="assets/vila-do-abraao.jpg" decoding="async" loading="lazy" alt="Vista aérea da Vila do Abraão, Ilha Grande" />
               <figcaption>
                 <strong>Abraão</strong>
                 <span>Vila, cais e praias próximas</span>
               </figcaption>
             </figure>
             <figure class="route-photo-card" aria-hidden="true">
-              <img src="assets/cataguases-hero-web.jpg" alt="" />
+              <img src="assets/cataguases-hero-web.jpg" decoding="async" loading="lazy" alt="" />
               <figcaption>
                 <strong>Cataguases</strong>
                 <span>Água clara e banco de areia</span>
               </figcaption>
             </figure>
             <figure class="route-photo-card" aria-hidden="true">
-              <img src="assets/ilhas-botinas.jpg" alt="" />
+              <img src="assets/ilhas-botinas.jpg" decoding="async" loading="lazy" alt="" />
               <figcaption>
                 <strong>Ilhas Botinas</strong>
                 <span>Água clara perto da Gipóia</span>
               </figcaption>
             </figure>
             <figure class="route-photo-card" aria-hidden="true">
-              <img src="assets/lagoa-azul.jpg" alt="" />
+              <img src="assets/lagoa-azul.jpg" decoding="async" loading="lazy" alt="" />
               <figcaption>
                 <strong>Lagoa Azul</strong>
                 <span>Snorkel e água turquesa</span>
               </figcaption>
             </figure>
             <figure class="route-photo-card" aria-hidden="true">
-              <img src="assets/cataguases-hero-web.jpg" alt="" />
+              <img src="assets/cataguases-hero-web.jpg" decoding="async" loading="lazy" alt="" />
               <figcaption>
                 <strong>Ilhas Paradisíacas</strong>
                 <span>Gipóia, Botinas e almoço</span>
               </figcaption>
             </figure>
             <figure class="route-photo-card" aria-hidden="true">
-              <img src="assets/itanhaga-lado-frade.jpg" alt="" />
+              <img src="assets/itanhaga-lado-frade.jpg" decoding="async" loading="lazy" alt="" />
               <figcaption>
                 <strong>Lado Frade</strong>
                 <span>Itanhagá e lado do Frade</span>
               </figcaption>
             </figure>
             <figure class="route-photo-card" aria-hidden="true">
-              <img src="assets/lopes-mendes.jpg" alt="" />
+              <img src="assets/lopes-mendes.jpg" decoding="async" loading="lazy" alt="" />
               <figcaption>
                 <strong>Lopes Mendes</strong>
                 <span>Praia oceânica e selvagem</span>
               </figcaption>
             </figure>
             <figure class="route-photo-card" aria-hidden="true">
-              <img src="assets/praia-do-aventureiro.jpg" alt="" />
+              <img src="assets/praia-do-aventureiro.jpg" decoding="async" loading="lazy" alt="" />
               <figcaption>
                 <strong>Praia do Aventureiro</strong>
                 <span>Coqueiro famoso e mar aberto</span>
               </figcaption>
             </figure>
             <figure class="route-photo-card" aria-hidden="true">
-              <img src="assets/vila-do-abraao.png" alt="" />
+              <img src="assets/vila-do-abraao.jpg" decoding="async" loading="lazy" alt="" />
               <figcaption>
                 <strong>Abraão</strong>
                 <span>Vila, cais e praias próximas</span>
@@ -318,7 +321,7 @@
 
         <div class="tour-grid">
           <article class="tour-card">
-            <img src="assets/ilhas-botinas.jpg" alt="Ilhas Botinas vistas do mar" />
+            <img src="assets/ilhas-botinas.jpg" decoding="async" loading="lazy" alt="Ilhas Botinas vistas do mar" />
             <div class="tour-card-body">
               <div>
                 <p class="tag">Ilhas Paradisíacas</p>
@@ -349,7 +352,7 @@
           </article>
 
           <article class="tour-card">
-            <img src="assets/lagoa-azul.jpg" alt="Lagoa Azul com água clara e montanhas" />
+            <img src="assets/lagoa-azul.jpg" decoding="async" loading="lazy" alt="Lagoa Azul com água clara e montanhas" />
             <div class="tour-card-body">
               <div>
                 <p class="tag">Lagoa Azul</p>
@@ -380,7 +383,7 @@
           </article>
 
           <article class="tour-card">
-            <img src="assets/itanhaga-lado-frade.jpg" alt="Itanhagá no roteiro Lado Frade" />
+            <img src="assets/itanhaga-lado-frade.jpg" decoding="async" loading="lazy" alt="Itanhagá no roteiro Lado Frade" />
             <div class="tour-card-body">
               <div>
                 <p class="tag">Lado Frade</p>
@@ -411,7 +414,7 @@
           </article>
 
           <article class="tour-card">
-            <img src="assets/lopes-mendes.jpg" alt="Praia de Lopes Mendes vista do alto" />
+            <img src="assets/lopes-mendes.jpg" decoding="async" loading="lazy" alt="Praia de Lopes Mendes vista do alto" />
             <div class="tour-card-body">
               <div>
                 <p class="tag">Ilha Grande</p>
@@ -442,7 +445,7 @@
           </article>
 
           <article class="tour-card">
-            <img src="assets/praia-do-aventureiro.jpg" alt="Praia do Aventureiro com coqueiro e mar claro" />
+            <img src="assets/praia-do-aventureiro.jpg" decoding="async" loading="lazy" alt="Praia do Aventureiro com coqueiro e mar claro" />
             <div class="tour-card-body">
               <div>
                 <p class="tag">Ilha Grande</p>
@@ -473,7 +476,7 @@
           </article>
 
           <article class="tour-card">
-            <img src="assets/vila-do-abraao.png" alt="Vista aérea da Vila do Abraão, Ilha Grande" />
+            <img src="assets/vila-do-abraao.jpg" decoding="async" loading="lazy" alt="Vista aérea da Vila do Abraão, Ilha Grande" />
             <div class="tour-card-body">
               <div>
                 <p class="tag">Ilha Grande</p>
@@ -519,7 +522,7 @@
 
         <div class="mood-visuals" aria-label="Momentos do passeio">
           <figure class="mood-card mood-card-wide">
-            <img src="assets/cataguases-hero-web.jpg" alt="Água clara e ilhas vistas de cima" />
+            <img src="assets/cataguases-hero-web.jpg" decoding="async" loading="lazy" alt="Água clara e ilhas vistas de cima" />
             <figcaption>
               <span>01</span>
               <div>
@@ -529,7 +532,7 @@
             </figcaption>
           </figure>
           <figure class="mood-card">
-            <img src="assets/ilhas-botinas.jpg" alt="Ilhas Botinas em Angra dos Reis" />
+            <img src="assets/ilhas-botinas.jpg" decoding="async" loading="lazy" alt="Ilhas Botinas em Angra dos Reis" />
             <figcaption>
               <span>02</span>
               <div>
@@ -539,7 +542,7 @@
             </figcaption>
           </figure>
           <figure class="mood-card">
-            <img src="assets/angra-panorama.jpg" alt="Barcos, praia e ilhas em Angra" />
+            <img src="assets/angra-panorama.jpg" decoding="async" loading="lazy" alt="Barcos, praia e ilhas em Angra" />
             <figcaption>
               <span>03</span>
               <div>

diff --git a/PUBLICAR.md b/PUBLICAR.md
@@ -25,6 +25,31 @@ Este site e estatico. Para publicar, envie todos os arquivos desta pasta para um
 ## Arquivos principais
 
 - `index.html`: conteudo do site
-- `styles.css`: visual do site
+- `styles.css`: visual do site (arquivo fonte, editavel)
+- `styles.min.css`: versao minificada do `styles.css`, usada pelo `index.html` em producao
 - `script.js`: WhatsApp e mensagem automatica
 - `assets/`: imagens e logo
+
+### Editando o CSS
+
+O `index.html` carrega `styles.min.css` (menor, mais rapido) em vez de `styles.css`.
+Se voce editar `styles.css`, gere a versao minificada de novo antes de publicar:
+
+```
+npx clean-css-cli -O2 -o styles.min.css styles.css
+```
+
+## Depois de publicar (dominio definido)
+
+Com o site no ar em um dominio proprio, adicione no `<head>` do `index.html`:
+
+```html
+<link rel="canonical" href="https://SEU-DOMINIO/" />
+<meta property="og:type" content="website" />
+<meta property="og:url" content="https://SEU-DOMINIO/" />
+<meta property="og:title" content="Viva Angra Tour | Passeios em Angra dos Reis" />
+<meta property="og:description" content="Passeios de lancha, ilhas e praias em Angra dos Reis com a Viva Angra Tour." />
+<meta property="og:image" content="https://SEU-DOMINIO/assets/cataguases-hero-web.jpg" />
+```
+
+Isso melhora o preview do link quando compartilhado no WhatsApp, Instagram etc.
